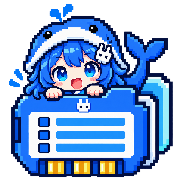
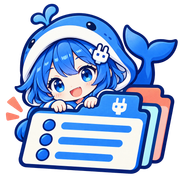
Unify Open Plugin Market branding with Catalog Club mascot

diff --git a/public/zh/index.html b/public/zh/index.html
@@ -5,7 +5,7 @@
   <meta name="viewport" content="width=device-width, initial-scale=1">
   <meta name="color-scheme" content="light">
   <meta name="theme-color" content="#eef3f8">
-  <title>DSH Plugin Index — 把插件索引加进 DSH</title>
+  <title>开放插件市场 — 把插件索引加进 DSH</title>
   <meta name="description" content="为 DeepSeek Harness 提供的社区插件索引。复制一个地址，添加到 DSH，在内置市场中查找和选择插件。">
   <meta name="robots" content="index,follow">
   <link rel="canonical" href="https://polang233.github.io/dsh-plugin-index/zh/">
@@ -16,25 +16,25 @@
   <link rel="apple-touch-icon" href="../assets/apple-touch-icon.png" sizes="180x180">
   <link rel="stylesheet" href="../assets/site.css">
   <meta property="og:type" content="website">
-  <meta property="og:site_name" content="DSH Plugin Index">
+  <meta property="og:site_name" content="开放插件市场">
   <meta property="og:locale" content="zh_CN">
   <meta property="og:locale:alternate" content="en_US">
-  <meta property="og:title" content="DSH Plugin Index — 把插件索引加进 DSH">
+  <meta property="og:title" content="开放插件市场 — 把插件索引加进 DSH">
   <meta property="og:description" content="为 DeepSeek Harness 提供的社区插件索引。复制一个地址，添加到 DSH，在内置市场中查找和选择插件。">
   <meta property="og:url" content="https://polang233.github.io/dsh-plugin-index/zh/">
   <meta property="og:image" content="https://polang233.github.io/dsh-plugin-index/assets/social.png">
   <meta property="og:image:type" content="image/png">
   <meta property="og:image:width" content="1200">
   <meta property="og:image:height" content="630">
-  <meta property="og:image:alt" content="DSH Plugin Index. Add one URL to DSH.">
+  <meta property="og:image:alt" content="Open Plugin Market. Add one URL to DSH.">
   <meta name="twitter:card" content="summary_large_image">
-  <script type="application/ld+json">{"@context":"https://schema.org","@type":"WebSite","name":"DSH Plugin Index","url":"https://polang233.github.io/dsh-plugin-index/","inLanguage":["en","zh-CN"],"description":"为 DeepSeek Harness 提供的社区插件索引。复制一个地址，添加到 DSH，在内置市场中查找和选择插件。"}</script>
+  <script type="application/ld+json">{"@context":"https://schema.org","@type":"WebSite","name":"开放插件市场","url":"https://polang233.github.io/dsh-plugin-index/","inLanguage":["en","zh-CN"],"description":"为 DeepSeek Harness 提供的社区插件索引。复制一个地址，添加到 DSH，在内置市场中查找和选择插件。"}</script>
   <script src="../assets/site.js" defer></script>
 </head>
 <body>
   <a class="skip" href="#main">跳到正文</a>
   <header class="site-header shell">
-    <a class="brand" href="../index.html"><img src="../assets/logo-256.png" alt="" width="64" height="64"><span>DSH Plugin Index</span></a>
+    <a class="brand" href="../index.html"><img src="../assets/logo-256.png" alt="" width="64" height="64"><span>开放插件市场</span></a>
     <nav class="header-links" aria-label="主导航">
       <a href="#plugins">插件目录</a><a class="header-docs" href="https://github.com/polang233/dsh-plugin-index/blob/main/README.zh-CN.md">文档</a><a href="https://github.com/polang233/dsh-plugin-index">GitHub</a>
       <div class="languages" aria-label="语言"><a href="../index.html" lang="en" hreflang="en">EN</a><span lang="zh-CN" aria-current="page">中文</span></div>

diff --git a/public/index.html b/public/index.html
@@ -5,7 +5,7 @@
   <meta name="viewport" content="width=device-width, initial-scale=1">
   <meta name="color-scheme" content="light">
   <meta name="theme-color" content="#eef3f8">
-  <title>DSH Plugin Index — Add one URL to DSH</title>
+  <title>Open Plugin Market — Add one URL to DSH</title>
   <meta name="description" content="A community plugin index for DeepSeek Harness. Copy one URL into DSH, browse the directory, and choose the plugins you need.">
   <meta name="robots" content="index,follow">
   <link rel="canonical" href="https://polang233.github.io/dsh-plugin-index/">
@@ -16,25 +16,25 @@
   <link rel="apple-touch-icon" href="./assets/apple-touch-icon.png" sizes="180x180">
   <link rel="stylesheet" href="./assets/site.css">
   <meta property="og:type" content="website">
-  <meta property="og:site_name" content="DSH Plugin Index">
+  <meta property="og:site_name" content="Open Plugin Market">
   <meta property="og:locale" content="en_US">
   <meta property="og:locale:alternate" content="zh_CN">
-  <meta property="og:title" content="DSH Plugin Index — Add one URL to DSH">
+  <meta property="og:title" content="Open Plugin Market — Add one URL to DSH">
   <meta property="og:description" content="A community plugin index for DeepSeek Harness. Copy one URL into DSH, browse the directory, and choose the plugins you need.">
   <meta property="og:url" content="https://polang233.github.io/dsh-plugin-index/">
   <meta property="og:image" content="https://polang233.github.io/dsh-plugin-index/assets/social.png">
   <meta property="og:image:type" content="image/png">
   <meta property="og:image:width" content="1200">
   <meta property="og:image:height" content="630">
-  <meta property="og:image:alt" content="DSH Plugin Index. Add one URL to DSH.">
+  <meta property="og:image:alt" content="Open Plugin Market. Add one URL to DSH.">
   <meta name="twitter:card" content="summary_large_image">
-  <script type="application/ld+json">{"@context":"https://schema.org","@type":"WebSite","name":"DSH Plugin Index","url":"https://polang233.github.io/dsh-plugin-index/","inLanguage":["en","zh-CN"],"description":"A community plugin index for DeepSeek Harness. Copy one URL into DSH, browse the directory, and choose the plugins you need."}</script>
+  <script type="application/ld+json">{"@context":"https://schema.org","@type":"WebSite","name":"Open Plugin Market","url":"https://polang233.github.io/dsh-plugin-index/","inLanguage":["en","zh-CN"],"description":"A community plugin index for DeepSeek Harness. Copy one URL into DSH, browse the directory, and choose the plugins you need."}</script>
   <script src="./assets/site.js" defer></script>
 </head>
 <body>
   <a class="skip" href="#main">Skip to content</a>
   <header class="site-header shell">
-    <a class="brand" href="./index.html"><img src="./assets/logo-256.png" alt="" width="64" height="64"><span>DSH Plugin Index</span></a>
+    <a class="brand" href="./index.html"><img src="./assets/logo-256.png" alt="" width="64" height="64"><span>Open Plugin Market</span></a>
     <nav class="header-links" aria-label="Main navigation">
       <a href="#plugins">Plugins</a><a class="header-docs" href="https://github.com/polang233/dsh-plugin-index#readme">Docs</a><a href="https://github.com/polang233/dsh-plugin-index">GitHub</a>
       <div class="languages" aria-label="Language"><span lang="en" aria-current="page">EN</span><a href="./zh/index.html" lang="zh-CN" hreflang="zh-CN">中文</a></div>

diff --git a/public/404.html b/public/404.html
@@ -1,4 +1,4 @@
-<!doctype html><html lang="en"><head><meta charset="utf-8"><meta name="viewport" content="width=device-width, initial-scale=1"><meta name="robots" content="noindex"><title>Page not found — DSH Plugin Index</title><link rel="icon" href="https://polang233.github.io/dsh-plugin-index/assets/favicon.png" type="image/png" sizes="64x64"><style>:root {
+<!doctype html><html lang="en"><head><meta charset="utf-8"><meta name="viewport" content="width=device-width, initial-scale=1"><meta name="robots" content="noindex"><title>Page not found — Open Plugin Market</title><link rel="icon" href="https://polang233.github.io/dsh-plugin-index/assets/favicon.png" type="image/png" sizes="64x64"><style>:root {
   color-scheme: light;
   --paper: #fff;
   --mist: #eef3f8;
@@ -168,4 +168,4 @@ h2 { margin: 0; font-size: 29px; letter-spacing: -.035em; line-height: 1.2; font
   .footer .scope { margin-top: 10px; }
 }
 @media (prefers-reduced-motion: reduce) { *, *::before, *::after { scroll-behavior: auto !important; } }
-</style></head><body><header class="site-header shell"><a class="brand" href="https://polang233.github.io/dsh-plugin-index/"><img src="https://polang233.github.io/dsh-plugin-index/assets/logo-256.png" alt="" width="64" height="64"><span>DSH Plugin Index</span></a></header><main class="shell hero"><h1>Page not found.</h1><p lang="zh-CN">页面不存在。</p><p>Open the plugin directory to continue.</p><p lang="zh-CN">返回插件目录，继续查找插件。</p><div class="contribute-links"><a class="submit-link" href="https://polang233.github.io/dsh-plugin-index/">English directory</a><a class="submit-link" href="https://polang233.github.io/dsh-plugin-index/zh/" lang="zh-CN">中文目录</a></div></main></body></html>
+</style></head><body><header class="site-header shell"><a class="brand" href="https://polang233.github.io/dsh-plugin-index/"><img src="https://polang233.github.io/dsh-plugin-index/assets/logo-256.png" alt="" width="64" height="64"><span>Open Plugin Market</span></a></header><main class="shell hero"><h1>Page not found.</h1><p lang="zh-CN">页面不存在。</p><p>Open the plugin directory to continue.</p><p lang="zh-CN">返回插件目录，继续查找插件。</p><div class="contribute-links"><a class="submit-link" href="https://polang233.github.io/dsh-plugin-index/">English directory</a><a class="submit-link" href="https://polang233.github.io/dsh-plugin-index/zh/" lang="zh-CN">中文目录</a></div></main></body></html>

diff --git a/README.zh-CN.md b/README.zh-CN.md
@@ -1,8 +1,8 @@
 <p align="center">
-  <img src="site/logo.png" alt="DSH Plugin Index 项目 Logo" width="160" height="160">
+  <img src="site/logo.png" alt="开放插件市场 项目 Logo" width="160" height="160">
 </p>
 
-# DSH Plugin Index
+# 开放插件市场
 
 DeepSeek Harness 的社区插件索引。添加一个地址，即可在 DSH 内浏览和安装插件。
 

diff --git a/README.md b/README.md
@@ -1,8 +1,8 @@
 <p align="center">
-  <img src="site/logo.png" alt="DSH Plugin Index logo" width="160" height="160">
+  <img src="site/logo.png" alt="Open Plugin Market logo" width="160" height="160">
 </p>
 
-# DSH Plugin Index
+# Open Plugin Market
 
 A community plugin index for DeepSeek Harness. Add one URL in DSH to browse and install plugins.
 
